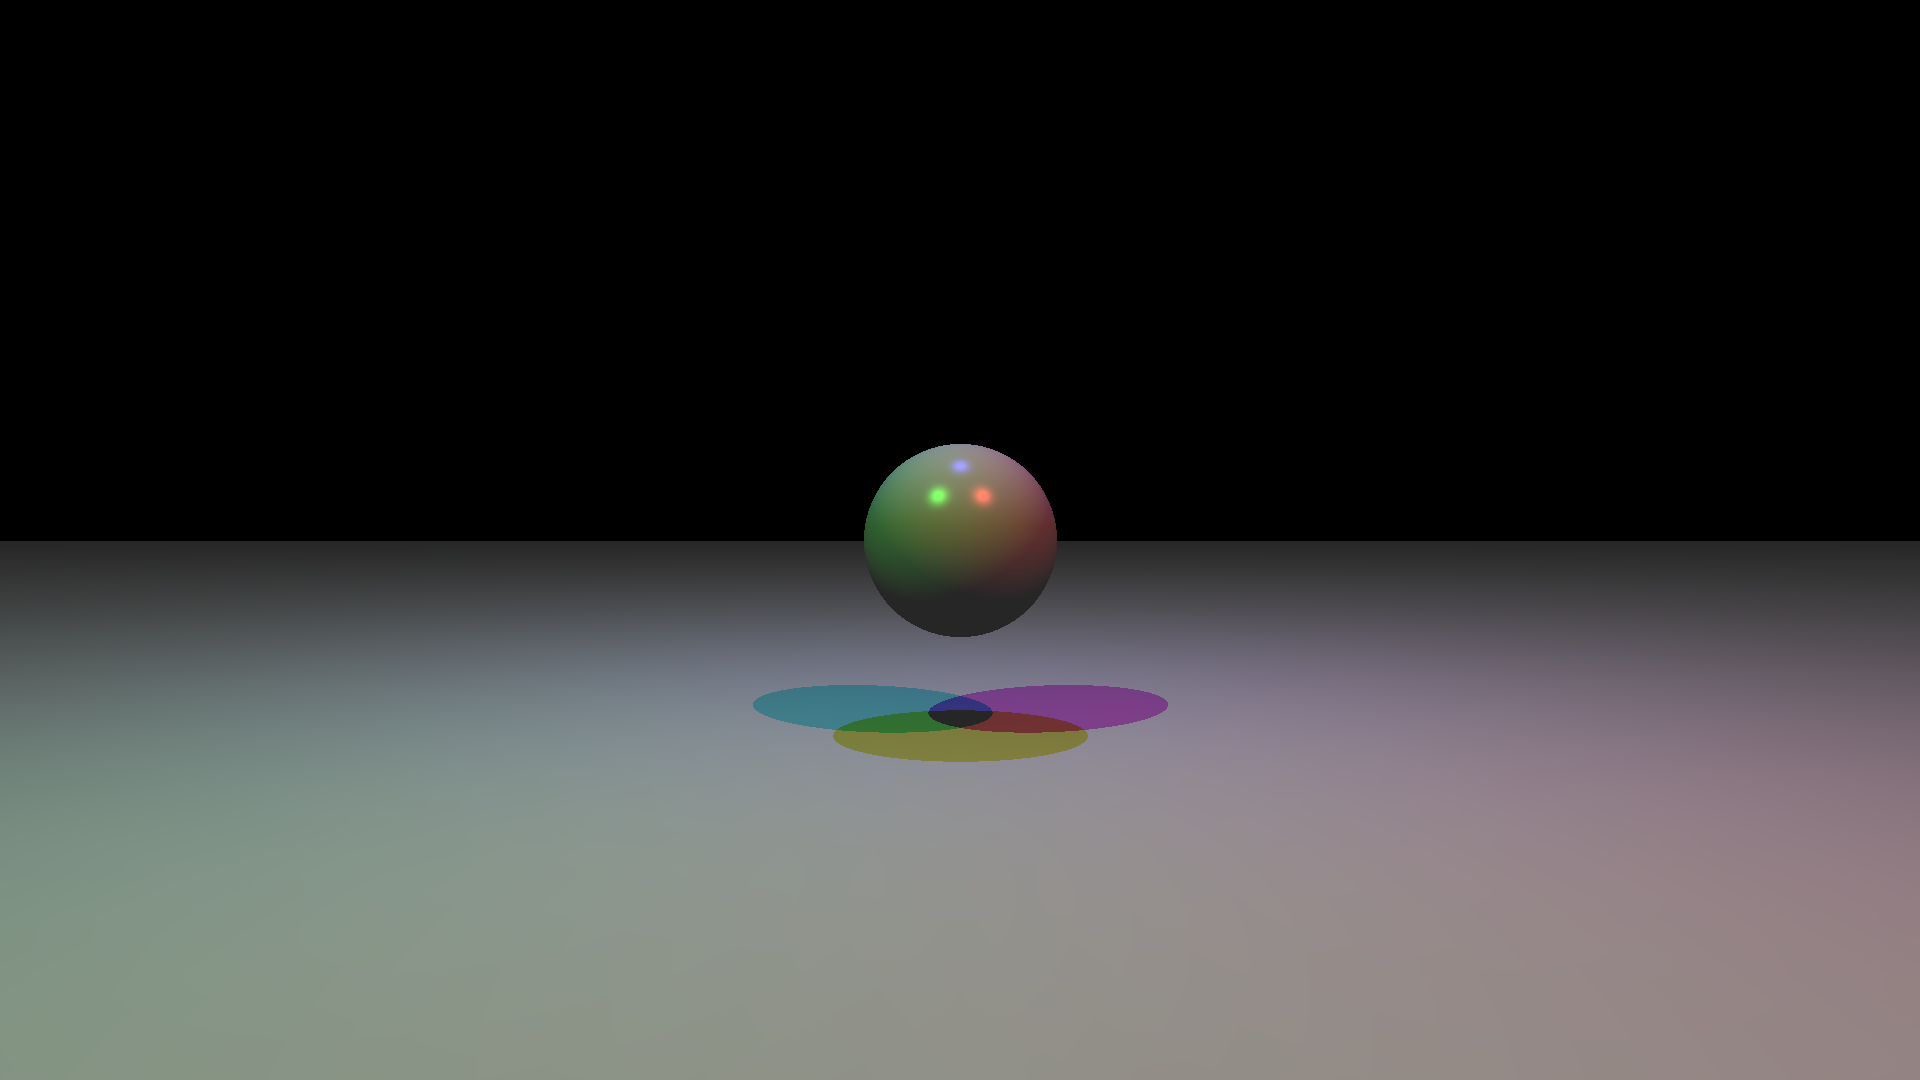
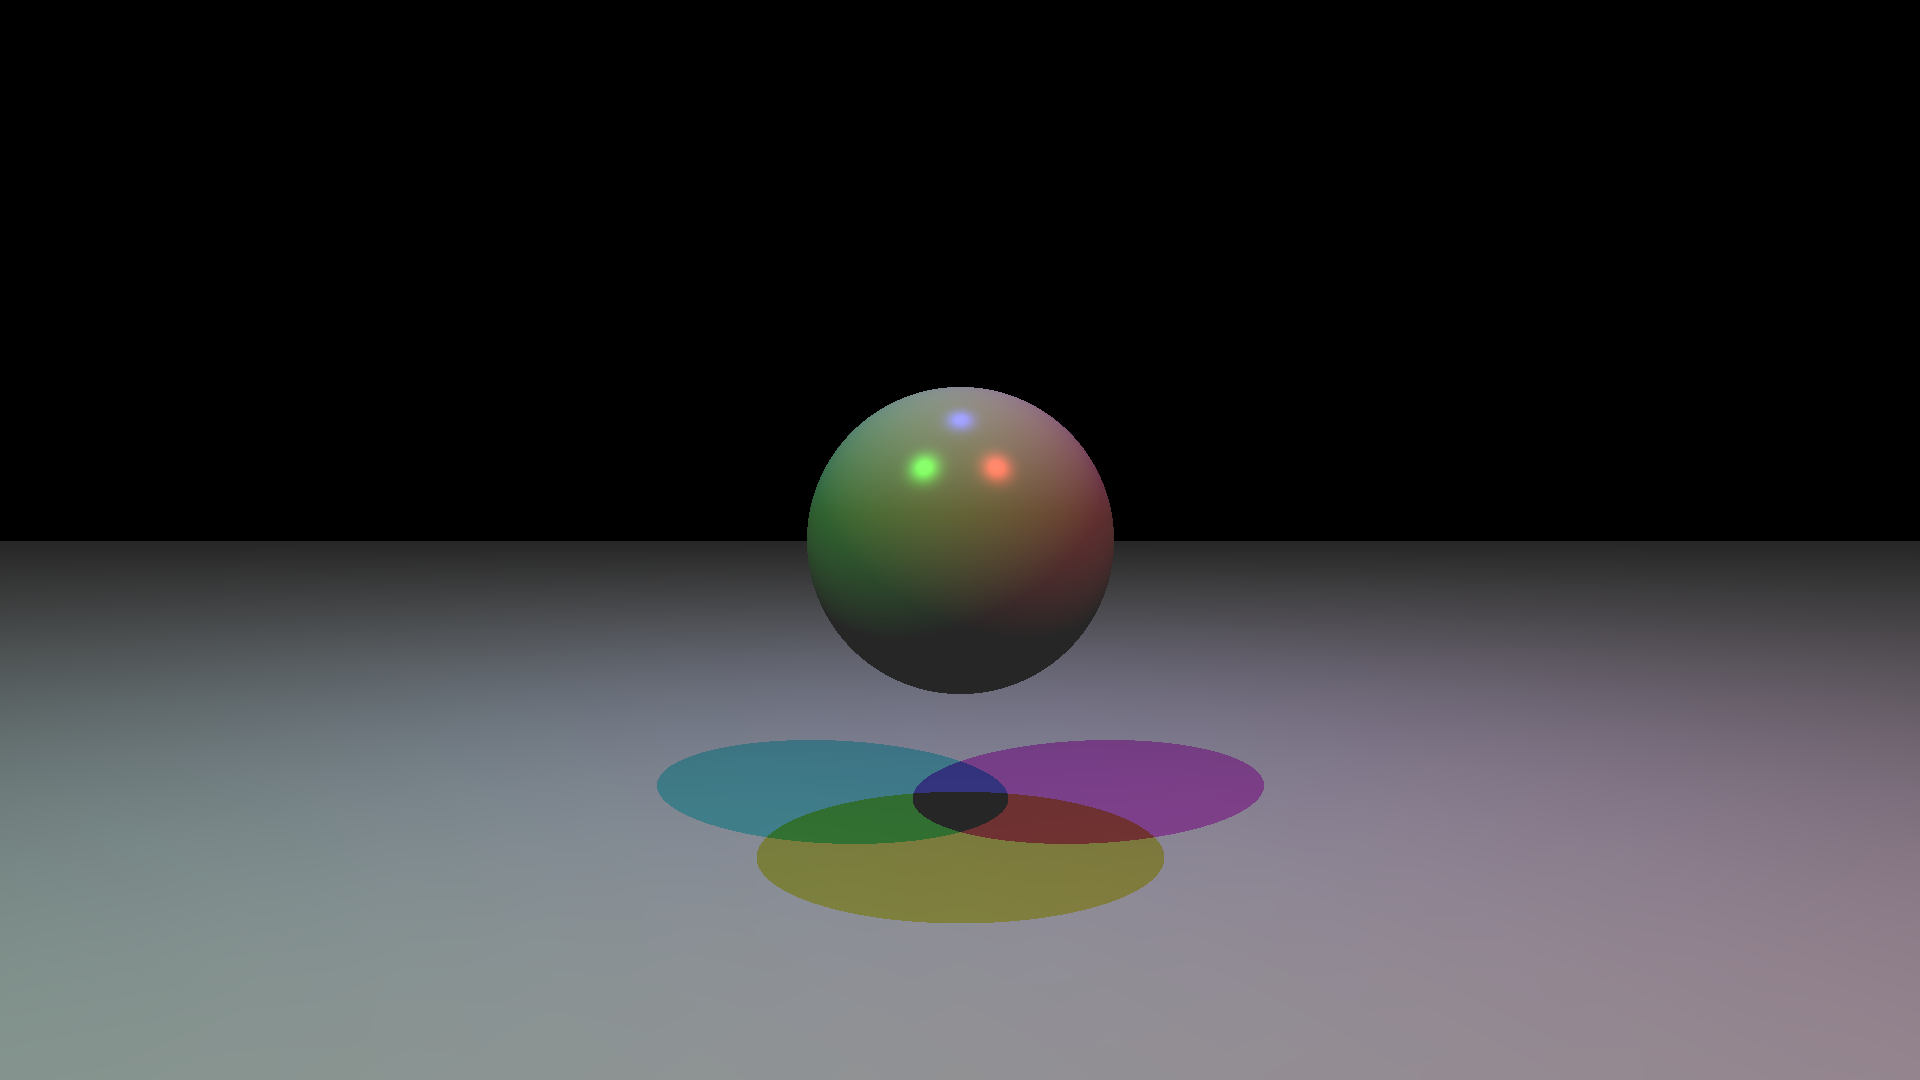
Docs + scenes

Changed region(s): [[0.3438, 0.3361, 0.6562, 0.8556]]

diff --git a/includes/define.h b/includes/define.h
@@ -6,7 +6,7 @@
 /*   By: cbordeau <[email redacted]>          +#+  +:+       +#+        */
 /*                                                +#+#+#+#+#+   +#+           */
 /*   Created: 2025/06/10 11:10:01 by cbordeau          #+#    #+#             */
-/*   Updated: 2025/07/23 12:50:51 by aykrifa          ###   ########.fr       */
+/*   Updated: 2026/06/18 13:20:11 by aykrifa          ###   ########.fr       */
 /*                                                                            */
 /* ************************************************************************** */
 
@@ -44,7 +44,7 @@
 # define KD 0.5
 # define KS 0.9
 # define ALPHA_S 200
-# define MAX_OBJ 50
+# define MAX_OBJ 1000
 # define MAX_LIGHT 20
 
 #endif

diff --git a/README.md b/README.md
@@ -3,9 +3,9 @@
 > A ray tracer written from scratch in C — Blinn-Phong shading, UV texture mapping, bump mapping, and interactive real-time controls.
 
 <!-- Replace the lines below with actual screenshots once rendered -->
-<!-- Tip: run ./miniRT assets/scene/pretty_sphere.rt and take a screenshot -->
+<!-- Tip: run ./miniRT assets/scene/spheres.rt and take a screenshot -->
 
-![render preview](docs/renders/pretty_sphere.png)
+![render preview](docs/renders/spheres.png)
 
 ---
 
@@ -47,7 +47,7 @@ make
 ### Run
 
 ```bash
-./miniRT assets/scene/pretty_sphere.rt
+./miniRT assets/scene/spheres.rt
 ```
 
 ---
@@ -174,21 +174,14 @@ srcs/
 
 ---
 
-## Authors
-
-- [Ayoub](https://github.com/Ayoubkrif)
-- [Clara](https://github.com/Bordeau-Clara)
-
----
-
 ## Gallery
 
-| | |
-|---|---|
-| ![](docs/renders/castle.png) | ![](docs/renders/pretty_sphere.png) |
-| Castle | Pretty sphere |
-| ![](docs/renders/3lights.png) | |
-| 3 lights | |
+| | | |
+|---|---|---|
+| ![](docs/renders/castle.png) | ![](docs/renders/spheres.png) | ![](docs/renders/cones.png) |
+| Castle | Spheres | Cones |
+| ![](docs/renders/3lights.png) | | |
+| 3 lights | | |
 
 ![texture rotation](docs/renders/rotation.gif)
 
@@ -201,3 +194,10 @@ srcs/
 - [Blinn–Phong reflection model](https://en.wikipedia.org/wiki/Blinn%E2%80%93Phong_reflection_model) — Wikipedia
 - [UV coordinates for sphere cylindrical projection](https://gamedev.stackexchange.com/questions/114412/how-to-get-uv-coordinates-for-sphere-cylindrical-projection) — Game Dev Stack Exchange
 - [UV mapping](https://en.wikipedia.org/wiki/UV_mapping) — Wikipedia
+
+---
+
+## Authors
+
+- [Ayoub](https://github.com/Ayoubkrif)
+- [Clara](https://github.com/Bordeau-Clara)